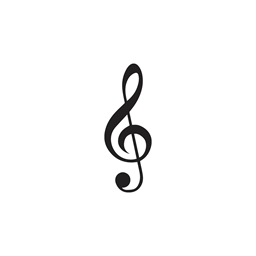
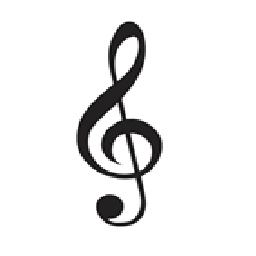
Modified TrebleClefBlack.png, and added rotation to puzzle pieces.

Changed region(s): [[0.2812, 0.0625, 0.6562, 0.9062]]

diff --git a/JigsawPuzzleGame/JigsawPuzzleGame.cpp b/JigsawPuzzleGame/JigsawPuzzleGame.cpp
@@ -251,6 +251,9 @@ int main(){
 
     sf::Text MusicVolumeText(font);
 
+    sf::Text PuzzleText(font);
+    PuzzleText.setString("Puzzle Piece");
+
     //sf::Texture GrapeTexture("Grapes.png");
     //sf::Sprite Grape(GrapeTexture);
     //Grape.setColor(sf::Color::Blue);
@@ -278,9 +281,15 @@ int main(){
     sf::RectangleShape MusicBar({ 300,20 });
     sf::RectangleShape MusicBar2(MusicBar.getSize());
 
+    //Puzzle Piece
+    sf::RectangleShape Puzzle(PuzzleText.getGlobalBounds().size);
+    Puzzle.setPosition({ 300, 400 });
+
+    //SoundBar
     SoundBar.setFillColor(sf::Color::Green);
     SoundBar2.setFillColor(sf::Color::White);
 
+    //MusicBar
     MusicBar.setFillColor(sf::Color::Green);
     MusicBar2.setFillColor(sf::Color::White);
 
@@ -296,6 +305,12 @@ int main(){
     sf::Music music("city-bgm-336601.mp3");
     music.play();
     music.setLooping(true);
+
+    //Creating the 4 default angles
+    sf::Angle NorthAngle = sf::degrees(0);
+    sf::Angle EastAngle = sf::degrees(90);
+    sf::Angle SouthAngle = sf::degrees(180);
+    sf::Angle WestAngle = sf::degrees(270);
 
         // run the program as long as the window is open
     while (MainMenu.isOpen()) {
@@ -403,6 +418,55 @@ int main(){
             SoundCircle2.setFillColor(sf::Color::Green);
         }
 
+        // Puzzle Changes to red when mouse hover.
+        if (Puzzle.getGlobalBounds().contains({ (float)localPosition.x, (float)localPosition.y }) == true) {
+            Puzzle.setFillColor(sf::Color::Red);
+
+            // left mouse button is pressed drag the puzzle piece
+            if (sf::Mouse::isButtonPressed(sf::Mouse::Button::Left)) {
+
+                //Pick up the center piece of the puzzle, and drag them to a new position
+                if (Puzzle.getRotation() == NorthAngle) {
+                    Puzzle.setPosition({ (float)localPosition.x - Puzzle.getSize().x / 2, (float)localPosition.y - Puzzle.getSize().y / 2 });
+                }
+
+                if (Puzzle.getRotation() == WestAngle) {
+                    Puzzle.setPosition({ (float)localPosition.x - Puzzle.getSize().y / 2, (float)localPosition.y + Puzzle.getSize().x / 2 });
+                }
+
+                if (Puzzle.getRotation() == SouthAngle) {
+                    Puzzle.setPosition({ (float)localPosition.x + Puzzle.getSize().x / 2, (float)localPosition.y + Puzzle.getSize().y / 2 });
+                }
+
+                if (Puzzle.getRotation() == EastAngle) {
+                    Puzzle.setPosition({ (float)localPosition.x + Puzzle.getSize().y / 2, (float)localPosition.y - Puzzle.getSize().x / 2 });
+                }
+
+
+                //Change the rotation of the Puzzle piece.
+                if (sf::Keyboard::isKeyPressed(sf::Keyboard::Key::A)) {
+                    Puzzle.setRotation(WestAngle);
+                }
+
+                if (sf::Keyboard::isKeyPressed(sf::Keyboard::Key::W)) {
+                    Puzzle.setRotation(NorthAngle);
+                }
+
+                if (sf::Keyboard::isKeyPressed(sf::Keyboard::Key::S)) {
+                    Puzzle.setRotation(SouthAngle);
+                }
+
+                if (sf::Keyboard::isKeyPressed(sf::Keyboard::Key::D)) {
+                    Puzzle.setRotation(EastAngle);
+                }
+
+
+            }
+        }
+        else {
+            Puzzle.setFillColor(sf::Color::Blue);
+        }
+
         // check all the window's events that were triggered since the last iteration of the loop
         while (const std::optional event = MainMenu.pollEvent()) {
             // "close requested" event: we close the window
@@ -414,13 +478,16 @@ int main(){
         //Position of the Text,Buttons, and Sprites.
         sf::Transform transform = Speaker.getTransform();
         sf::Transform transform2 = Music.getTransform();
+        sf::Transform transform3 = Puzzle.getTransform();
 
         // 2. Define the relative position
         sf::Vector2f relativePosition(300, 90);
+        sf::Vector2f relativePosition2(0, 0);
 
         // 3. Apply the transformation to the relative position
         sf::Vector2f transformedPosition = transform.transformPoint(relativePosition);
         sf::Vector2f transformedPosition2 = transform2.transformPoint(relativePosition);
+        sf::Vector2f transformedPosition3 = transform3.transformPoint(relativePosition2);
 
         // 4. Move sprite1 to the transformed position
         SoundBar2.setPosition(transformedPosition);
@@ -447,6 +514,9 @@ int main(){
         MusicVolumeText.setString(MusicVolumeString);
 
 
+        PuzzleText.setPosition(Puzzle.getPosition());
+        PuzzleText.setRotation(Puzzle.getRotation());
+
         //Order matters when drawing objects.
         MainMenu.clear();
         MainMenu.draw(QuitButton);
@@ -465,6 +535,8 @@ int main(){
         MainMenu.draw(MusicBar);
         MainMenu.draw(MusicVolumeText);
         MainMenu.draw(SoundCircle2);
+        MainMenu.draw(Puzzle);
+        MainMenu.draw(PuzzleText);
         //MainMenu.draw(Grape);
         MainMenu.display();
 
